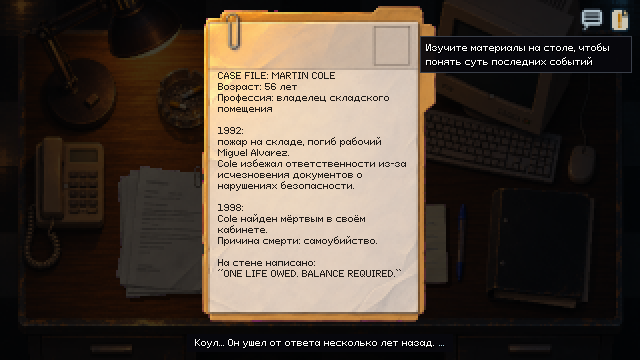
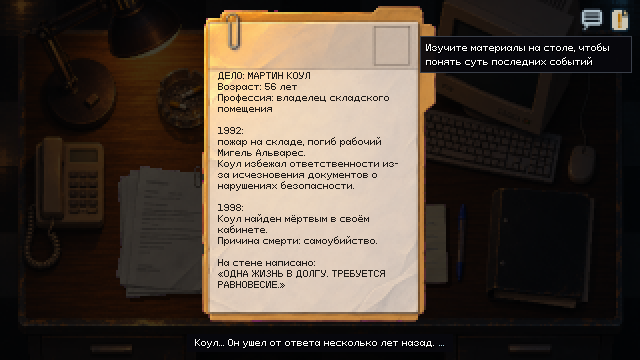
[Э3] all in-game text in Russian; Alexei's thoughts on report choices; subtle object hints (glint + corner brackets) instead of markers

diff --git a/docs/scenes/s01_precinct_design.md b/docs/scenes/s01_precinct_design.md
@@ -2,7 +2,7 @@
 Статус: DRAFT. Все детали — от пользователя; Claude ничего не добавляет без согласования.
 Референсы: `art/refs/s01_precinct/` (+ `notes.md`), атмосфера — `art/refs/_style/`.
 Время действия: Нью-Йорк, 1998. Длительность: этап 1, 00:00–02:00.
-Язык: русский; названия, имена и надписи «в мире» — по-английски (см. формат 2).
+Язык: весь текст в игре — по-русски, включая имена и надписи «в мире» (решение пользователя 2026-11-18).
 Финал сцены: пока не обсуждаем.
 
 Сейчас собираем **визуал**; реализация — после APPROVED.
@@ -23,7 +23,7 @@
 - На столе: **телефон эпохи (1998)** и **3 документа** (отдельные спрайты, слегка сдвигаются при наведении мыши).
 - Клик по документу → он показывается крупнее и чётче (в пиксель-арте, без смены стиля), + текст и реакция Алексея.
 
-Правило языка: названия, имена, служебные шапки и надписи «в мире» (The New York Times, CASE FILE, FROM/TO, надпись на стене) — по-английски; основной текст — по-русски.
+Правило языка (обновлено 2026-11-18): пока ВСЁ по-русски — «Нью-Йорк Таймс», «ДЕЛО», «От кого/Кому», надпись на стене «ОДНА ЖИЗНЬ В ДОЛГУ. ТРЕБУЕТСЯ РАВНОВЕСИЕ.»
 
 ### Документ 1. Газетная вырезка «The New York Times»
 - Визуал: мятая газета. Заголовок крупным шрифтом: «СЕРИЯ СТРАННЫХ СМЕРТЕЙ: СУДЬЯ ИЛИ ПАЛАЧ?». Дизайн свой, не как в референсе.

diff --git a/docs/STATUS.md b/docs/STATUS.md
@@ -17,6 +17,7 @@ Codex CLI: 0.169.0 (Node 26 LTS через nvm), вход: да (ChatGPT)
 | s01_precinct | дизайн DRAFT | ТЗ DRAFT; bg_exposition (v1_c), bg_desk (по рефу 05), 3 документа-спрайта APPROVED; крупные планы TODO | экспозиция | экспозиция — черновик (речь, маркеры, пыль, кнопка); стол — заготовка | — |
 
 ## Последние действия (последние 5, новые сверху)
+- 2026-11-18 Э3: весь текст по-русски; мысли Алексея при выборе в рапорте; маркеры заменены блик+уголки на предметах
 - 2026-11-18 Э3: компьютер Алексея (база, дела «Весов», входящие), рапорт с выбором → звонок; мысли о мониторе, кофе, сигаретах
 - 2026-11-18 Э3: длинные реплики/мысли — по страницам (TextPager, пробел/клик); звонок: 2 реплики Фёдора капсом, цвет уходит в ч/б, кнопка после всех мыслей; реакции на дело и записку
 - 2026-11-18: приватный репозиторий https://github.com/Elmisaa/2d-game (ветка master), шелест бумаги тише

diff --git a/docs/DECISIONS.md b/docs/DECISIONS.md
@@ -60,3 +60,7 @@ Pixeloid Sans / Sans Bold / Mono (GGBotNet, SIL OFL 1.1), 9 px. Файлы и л
 - Автозагрузка `GameState` — флаги и решения игрока (`set_flag/get_flag`) для будущих сцен.
 - `Terminal` (CanvasLayer, код без графики) — внутриигровой компьютер 1998 г.; `ClickZone` — кликабельная зона поверх нарисованного предмета.
 - Порядок на столе: 3 документа → рапорт в компьютере (выбор) → звонок.
+
+## 21. Язык и подсказки (2026-11-18)
+- Весь текст в игре пока по-русски, включая имена, шапки документов и надписи «в мире» (решение пользователя; отменяет правило «надписи по-английски»).
+- Интерактивные предметы без маркеров: зона по размеру предмета, редкий мягкий блик по предмету, на наведении — тонкие уголки-скобки и курсор-рука (`HintMarker`). Документы на столе — подъём при наведении.
